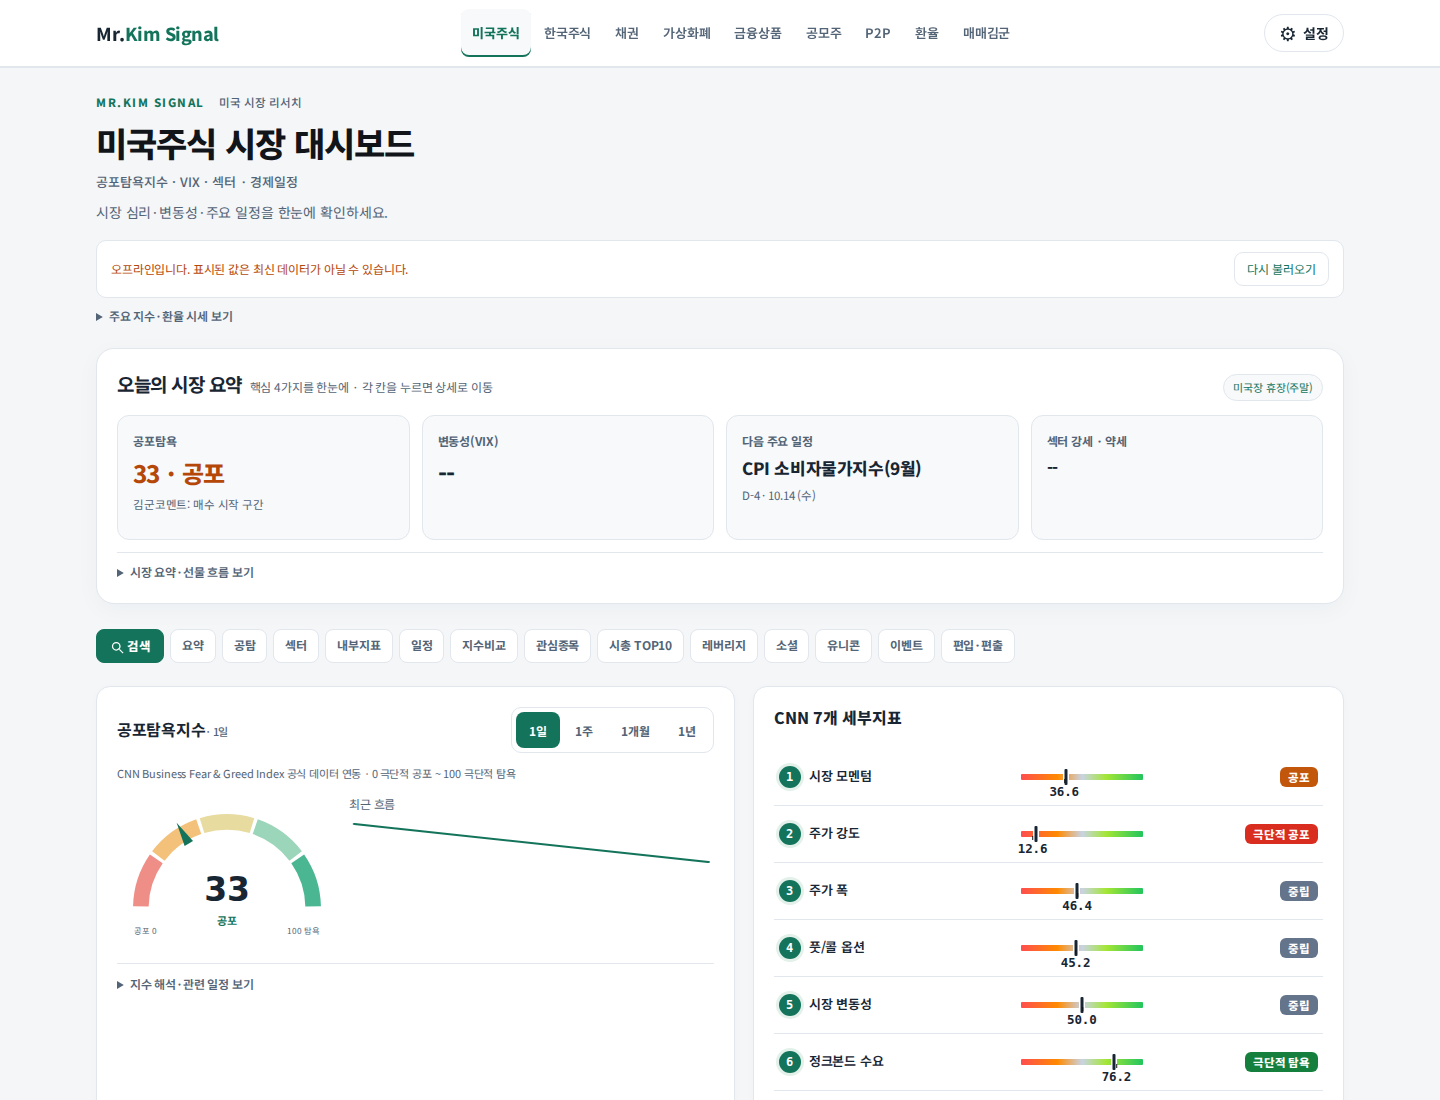
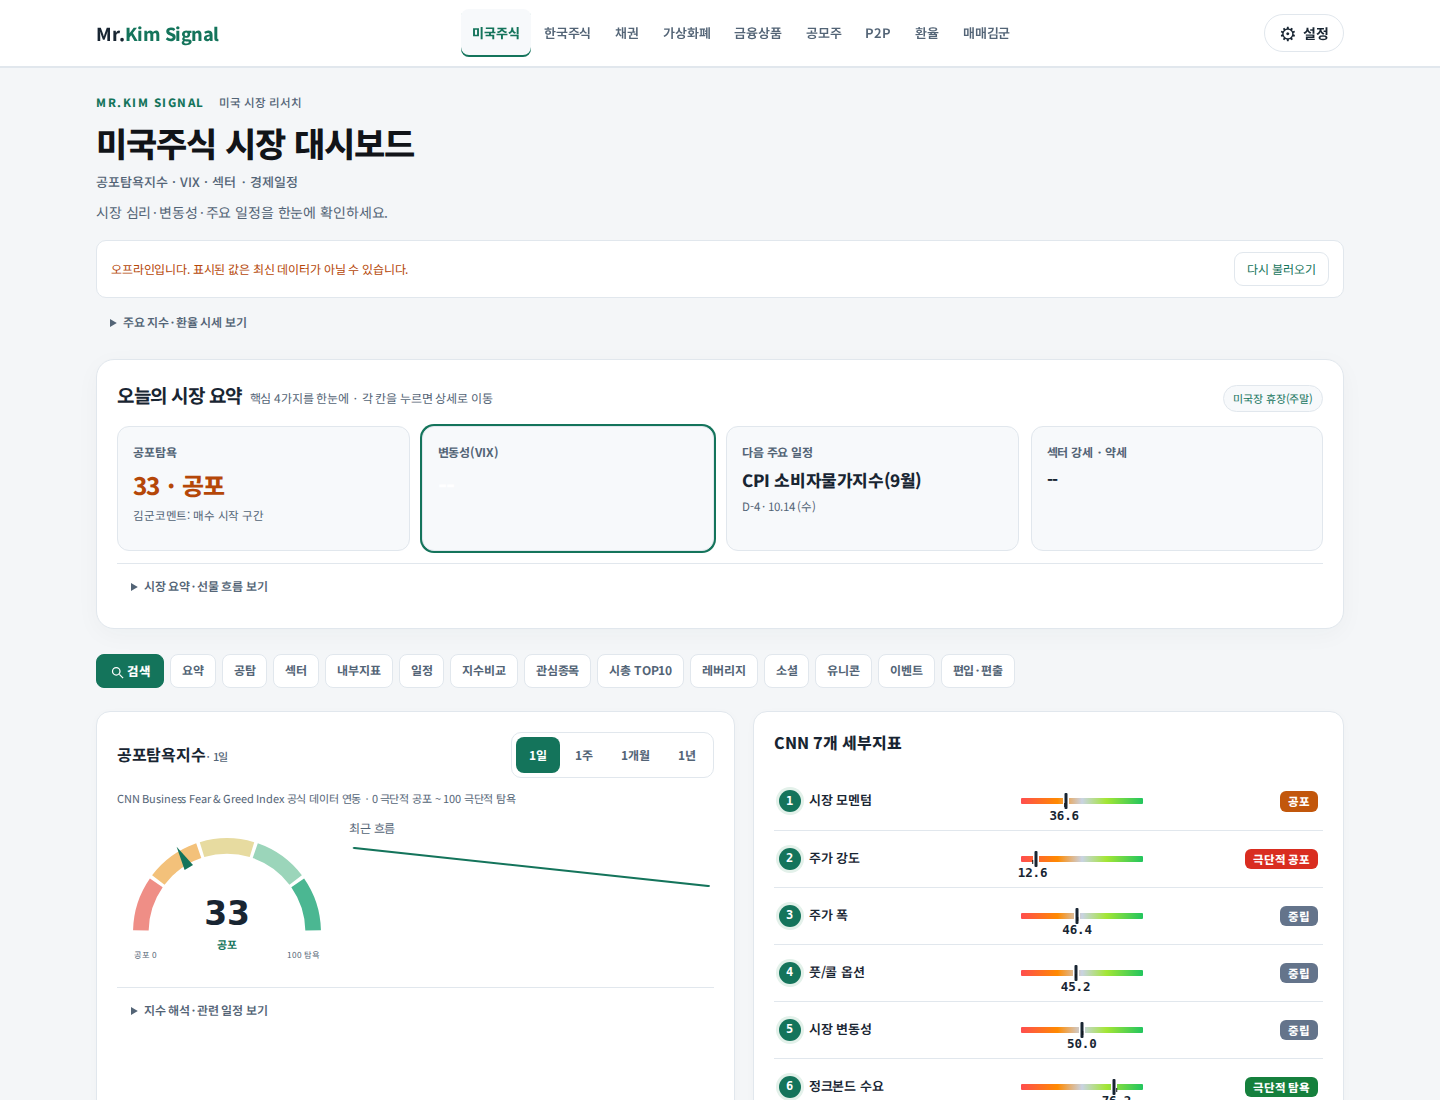
Add files via upload

diff --git a/stock-fixes-v44.css b/stock-fixes-v44.css
@@ -1,0 +1,54 @@
+/* US page only: stable interaction colors and compact mobile disclosures. */
+html body.pro #pro-toc a:is(:hover,:focus-visible),
+html body.pro .nav ul a:is(:hover,:focus-visible),
+html body.pro .fold-h:is(:hover,:focus-visible),
+html body.pro .fold-h.open:is(:hover,:focus-visible),
+html body.pro .tabs button:is(:hover,:focus-visible),
+html body.pro .hm-t button:is(:hover,:focus-visible),
+html body.pro #pro-brief .pb-c:is(:hover,:focus-visible){background:#00754a!important;color:#fff!important;border-color:#00754a!important}
+html body.pro .fold-h:is(:hover,:focus-visible) *{color:#fff!important}
+html body.pro .fold-h:is(:hover,:focus-visible) .fold-btn,
+html body.pro .fold-h:is(:hover,:focus-visible) .fold-btn *{background:#005c3a!important;color:#fff!important}
+html body.pro details>summary:is(:hover,:focus-visible){background:#00754a!important;color:#fff!important;margin-left:0!important;padding:12px 14px!important;border-radius:8px!important}
+html body.pro details>summary:is(:hover,:focus-visible) *{color:#fff!important}
+html body.pro .pulse .bl,html body.pro .shm-sum .ss-lb{display:grid!important;grid-template-columns:repeat(3,minmax(0,1fr));align-items:center;gap:0;line-height:1.6;min-height:24px}
+html body.pro :is(.bl,.ss-lb)>*{margin:0!important;padding:0!important;line-height:inherit!important;font-size:12px!important;font-weight:700!important;align-self:center;white-space:nowrap}
+html body.pro :is(.bl,.ss-lb)>:nth-child(2){text-align:center}
+html body.pro :is(.bl,.ss-lb)>:last-child{text-align:right}
+html body.pro #unicorn .grid.uc-on{align-items:start;row-gap:14px!important}
+html body.pro #unicorn .card.uc-grid{display:block!important;grid-row:auto!important;margin-bottom:0!important}
+html body.pro #unicorn .stock-company-details{margin-top:12px}
+html body.pro #unicorn .stock-company-details .uc-sec{margin-top:8px}
+html body.pro .wl-actions .ts-link{display:inline-flex;align-items:center;justify-content:center;background:var(--panel2)!important;color:var(--tx)!important;border:1px solid var(--line);border-radius:6px;padding:5px 8px;font-size:12px;font-weight:700;white-space:nowrap}
+html body.pro .wl-actions .my-del{display:inline-flex;align-items:center;justify-content:center;gap:4px;border:1px solid #db706b!important;background:transparent!important;color:#c62828!important;border-radius:6px;padding:5px 8px!important;font-size:12px!important;white-space:nowrap}
+html body.pro .wl-actions .my-del svg{width:14px;height:14px}
+html body.pro .wl-actions .my-del:hover{background:#b42318!important;color:#fff!important}
+html body.pro .stock-trend-details{min-width:0;flex:1}
+@media(min-width:701px){html body.pro .stock-trend-details>summary{display:none!important}}
+@media(max-width:700px){
+ html body.pro #us-sub .sb-val{display:none!important}
+ html body.pro #us-sub td.num{display:table-cell!important;min-width:42px;width:48px;text-align:right;padding:8px 5px!important}
+ html body.pro #us-sub td.num b{display:inline!important;font-size:12px!important;font-variant-numeric:tabular-nums}
+ html body.pro #us-sub .sub-bar{min-width:48px;margin:5px 0}
+ html body.pro #us-sub td:has(.sub-bar){padding:8px 7px!important}
+ html body.pro .stock-trend-details{width:100%;margin-top:8px}
+ html body.pro .stock-trend-details>summary{font-size:13px;cursor:pointer;padding:12px 14px;border:1px solid var(--line);border-radius:8px;color:var(--tx)}
+ html body.pro .stock-trend-details[open] .trend-lg{margin-top:12px}
+ html body.pro #unicorn .grid{grid-template-columns:1fr!important}
+ html body.pro .wl-actions{flex-wrap:wrap;gap:6px!important}
+ html body.pro .wl-actions :is(.ts-link,.my-del){min-height:36px;box-sizing:border-box}
+ html body.pro .m-fold>h3{min-height:44px}
+ html body.pro .m-fold>h3>:first-child{color:var(--tx)!important}
+}
+@media(max-width:700px){
+ html body.pro #us-sub td.num{min-width:68px;width:74px}
+ html body.pro #us-sub td.num b{display:block!important;line-height:1.5!important}
+ html body.pro #us-sub td.num :is(.badge,.tag,.chip){display:inline-block!important;margin-top:3px!important}
+}
+/* Match the summary box before and after hover; avoid a moving click target. */
+html body.pro details>summary{padding:12px 14px!important;margin-left:0!important;border-radius:8px!important;box-sizing:border-box}
+html body.pro .pulse .hm div.tl>span{height:32px!important;min-height:32px!important;line-height:1.2!important;align-items:center!important;justify-content:center!important;text-align:center!important;transform:none!important}
+html body.pro .pulse .hm div.tl small b{line-height:1.4!important;font-variant-numeric:tabular-nums}
+@media(max-width:700px){html body.pro .pulse .hm div.tl>span{height:30px!important;min-height:30px!important}}
+html body.pro #stock .tabs button:is(:hover,:focus-visible),
+html body.pro #stock .hm-t button:is(:hover,:focus-visible){background:#00754a!important;color:#fff!important;border-color:#00754a!important}

diff --git a/stock.html b/stock.html
@@ -4,8 +4,8 @@
 
 <meta charset="utf-8">
 <meta http-equiv="Content-Security-Policy" content="default-src 'self'; script-src 'self' 'unsafe-inline'; style-src 'self' 'unsafe-inline' https://fonts.googleapis.com; font-src 'self' https://fonts.gstatic.com data:; img-src 'self' data: https:; connect-src 'self' https://ai.coolzet.workers.dev; media-src 'none'; object-src 'none'; base-uri 'self'; form-action 'self'">
-<script src="stock-bootstrap.js?v=43"></script>
-<script src="stock-security.js?v=43"></script>
+<script src="stock-bootstrap.js?v=44"></script>
+<script src="stock-security.js?v=44"></script>
 <meta name="referrer" content="strict-origin-when-cross-origin">
 <meta name="viewport" content="width=device-width, initial-scale=1">
 <link rel="preconnect" href="https://fonts.googleapis.com">
@@ -353,7 +353,7 @@ footer{border-top:1px solid var(--line);padding:30px 0 44px;color:var(--tx2);fon
 .hm-kw{display:flex;gap:10px;flex-wrap:wrap;margin-bottom:12px}.hm-kw .hm-k{flex:1 1 320px;margin-bottom:0;min-width:0}
 #stock{padding-top:18px!important}#stock>.wrap>.sec-h{margin-bottom:0}#stock>.wrap>.sec-h .sub{margin-bottom:10px}
 @media(max-width:700px){#stock{padding-top:12px!important}}
-</style><link href="https://fonts.googleapis.com/css2?family=Noto+Sans+KR:wght@400;500;700&family=JetBrains+Mono:wght@400;500;700&display=swap" rel="stylesheet"><link rel="stylesheet" href="mrkim-pro.css?v=09442417"><link rel="stylesheet" href="mrkim-theme.css?v=1399affe"><script defer src="stock-gate-legacy.js?v=43"></script>
+</style><link href="https://fonts.googleapis.com/css2?family=Noto+Sans+KR:wght@400;500;700&family=JetBrains+Mono:wght@400;500;700&display=swap" rel="stylesheet"><link rel="stylesheet" href="mrkim-pro.css?v=09442417"><link rel="stylesheet" href="mrkim-theme.css?v=1399affe"><script defer src="stock-gate-legacy.js?v=44"></script>
 <style>
 /* 시장 한눈에 보기: 티커명 영역 높이 고정(글자 크기가 달라도 가격 블록 시작 위치 동일) · 등락 화살표 */
 .pulse .hm div.tl>span{display:flex;align-items:center;height:38px;padding-top:0;padding-bottom:0;line-height:1.2;box-sizing:border-box}
@@ -365,8 +365,9 @@ footer{border-top:1px solid var(--line);padding:30px 0 44px;color:var(--tx2);fon
 /* 탭이 많아지면 줄바꿈 */
 .pulse .hm-t{flex-wrap:wrap!important;row-gap:6px}
 </style>
-<link rel="stylesheet" href="stock-design-v2.css?v=43">
-<link rel="stylesheet" href="stock-layout-v3.css?v=43">
+<link rel="stylesheet" href="stock-design-v2.css?v=44">
+<link rel="stylesheet" href="stock-layout-v3.css?v=44">
+<link rel="stylesheet" href="stock-fixes-v44.css?v=44">
 </head>
 <body class="pro stock-v2">
 <a class="skip-link" href="#main">본문으로 건너뛰기</a>
@@ -778,7 +779,7 @@ footer{border-top:1px solid var(--line);padding:30px 0 44px;color:var(--tx2);fon
   </div>
 </footer>
 
-<script defer src="stock-common-v2.js?v=43"></script>
+<script defer src="stock-common-v2.js?v=44"></script>
 <script defer src="mrkim-pro.min.js?v=43c2f41f"></script>
 <script defer src="stock-page.js?v=ece9162e"></script>
 <script defer src="stock-fin.js?v=e8bfc40c"></script>
@@ -787,12 +788,13 @@ footer{border-top:1px solid var(--line);padding:30px 0 44px;color:var(--tx2);fon
 <script defer src="stock-fold.js?v=f46fb660"></script>
 <script defer src="stock-pulse.js?v=d52a2b42"></script>
 <script defer src="stock-mobile.js?v=181f1920"></script>
-<script defer src="stock-ux-v2.js?v=43"></script>
+<script defer src="stock-ux-v2.js?v=44"></script>
 <script defer src="stock-asof.js?v=e2fd5216"></script>
 <script defer src="stock-sort.js?v=6c3f0096"></script>
-<script defer src="stock-extra.js?v=43"></script>
+<script defer src="stock-extra.js?v=44"></script>
 <script defer src="mrkim-invest.js?v=4c7dada6"></script>
-<script defer src="stock-dashboard-v2.js?v=43"></script>
-<script defer src="stock-layout-v3.js?v=43"></script>
+<script defer src="stock-dashboard-v2.js?v=44"></script>
+<script defer src="stock-layout-v3.js?v=44"></script>
+<script defer src="stock-fixes-v44.js?v=44"></script>
 </body>
 </html>

diff --git a/stock-fixes-v44.js b/stock-fixes-v44.js
@@ -1,0 +1,9 @@
+(function(){
+ 'use strict';
+ function disclosure(cls,label){var d=document.createElement('details');d.className=cls;var s=document.createElement('summary');s.textContent=label;d.appendChild(s);return d;}
+ var trend=document.getElementById('us-trend');
+ if(trend){var host=trend.parentElement,d=disclosure('stock-trend-details','최근 흐름 그래프 · 세부보기');host.before(d);d.appendChild(host);var media=matchMedia('(max-width:700px)');function sync(){d.open=!media.matches;}sync();media.addEventListener('change',sync);}
+ document.querySelectorAll('#unicorn .uc-grid').forEach(function(c){var d=disclosure('stock-company-details','투자자·관련 뉴스 보기');['us','kr','news'].forEach(function(key){var e=c.querySelector('.uc-'+key);if(e)d.appendChild(e);});if(d.children.length>1)c.appendChild(d);});
+ function buttons(){document.querySelectorAll('#my-wl .wl-actions .ts-link:not([data-stock-label])').forEach(function(a){a.dataset.stockLabel='1';a.textContent='X 검색';a.setAttribute('aria-label','X에서 관련 게시물 검색');});document.querySelectorAll('#my-wl .my-del:not([data-stock-label])').forEach(function(b){b.dataset.stockLabel='1';b.innerHTML='<svg viewBox="0 0 24 24" aria-hidden="true" fill="none" stroke="currentColor" stroke-width="2"><path d="M4 7h16M9 7V4h6v3M6 7l1 13h10l1-13M10 10v7m4-7v7"/></svg><span>삭제</span>';});}
+ buttons();var watch=document.getElementById('my-wl');if(watch)new MutationObserver(buttons).observe(watch,{childList:true,subtree:true});
+})();

diff --git a/stock-sw.js b/stock-sw.js
@@ -1,6 +1,6 @@
 /* Public US dashboard assets only; never cache API, credentials, other pages. */
-const CACHE='mk-stock-public-v43';
-const STATIC=new Set(['stock.html','stock-layout-v3.js','stock-layout-v3.css','stock-bootstrap.js','stock-security.js','stock-design-v2.css','stock-dashboard-v2.js','stock-extra.js','stock-gate-legacy.js','stock-ux-v2.js','stock-common-v2.js','mrkim-pro.min.js','mrkim-pro.css','mrkim-theme.css','stock-page.js','stock-fin.js','stock-etf.js','stock-fold.js','stock-pulse.js','stock-mobile.js','stock-asof.js','stock-sort.js','mrkim-invest.js']);
+const CACHE='mk-stock-public-v44';
+const STATIC=new Set(['stock.html','stock-fixes-v44.css','stock-fixes-v44.js','stock-layout-v3.js','stock-layout-v3.css','stock-bootstrap.js','stock-security.js','stock-design-v2.css','stock-dashboard-v2.js','stock-extra.js','stock-gate-legacy.js','stock-ux-v2.js','stock-common-v2.js','mrkim-pro.min.js','mrkim-pro.css','mrkim-theme.css','stock-page.js','stock-fin.js','stock-etf.js','stock-fold.js','stock-pulse.js','stock-mobile.js','stock-asof.js','stock-sort.js','mrkim-invest.js']);
 self.addEventListener('install',e=>e.waitUntil(self.skipWaiting()));
 self.addEventListener('activate',e=>e.waitUntil(caches.keys().then(keys=>Promise.all(keys.filter(k=>(k.startsWith('mk-stock-public-')&&k!==CACHE)).map(k=>caches.delete(k)))).then(()=>self.clients.claim())));
 self.addEventListener('fetch',e=>{
